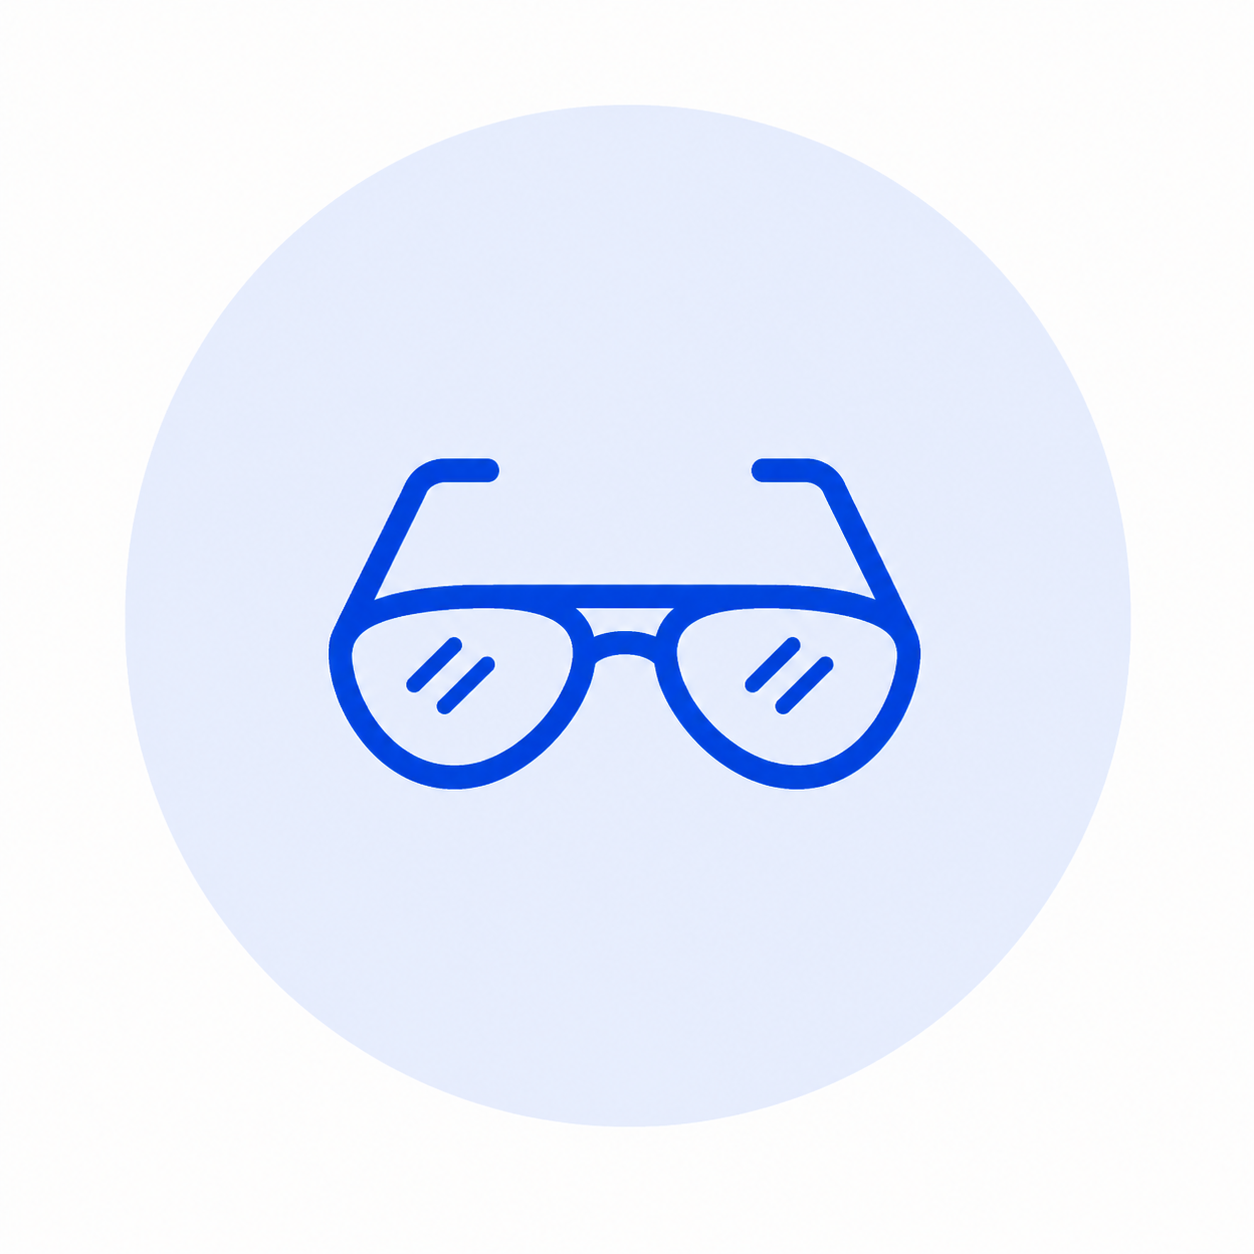
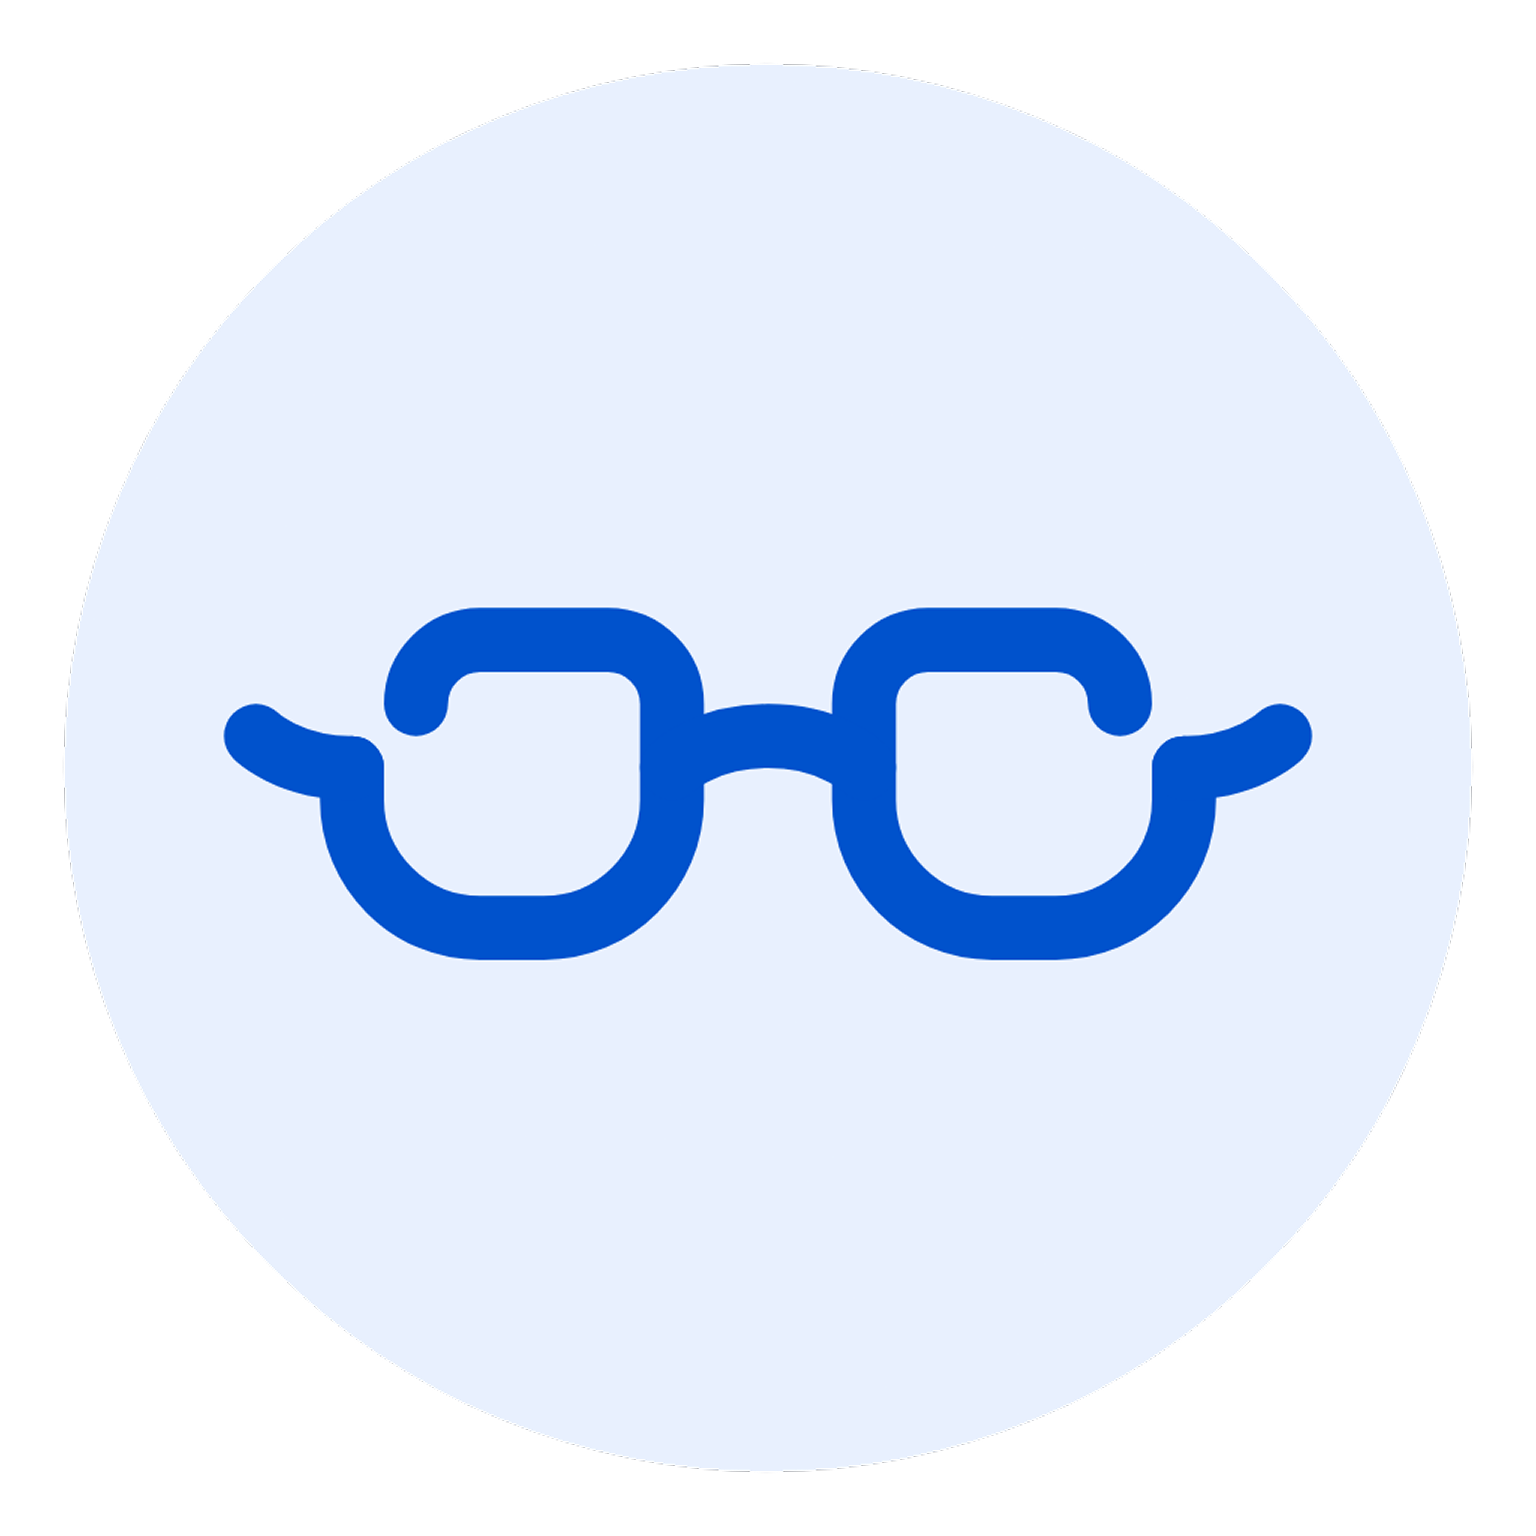
feat: add sunglasses asset and update category data source in HomeScreen

Changed region(s): [[0.1244, 0.3421, 0.8708, 0.6531]]

diff --git a/lib/features/home/ui/home_screen.dart b/lib/features/home/ui/home_screen.dart
@@ -54,7 +54,7 @@ class HomeScreen extends StatelessWidget {
                 shrinkWrap: true,
                 itemCount: 6,
                 itemBuilder: (context, index) {
-                  return CategoryItem(model: categoryList[index]);
+                  return CategoryItem(model: CategoriesData.categoryList[index]);
                 },
               ),
             ),